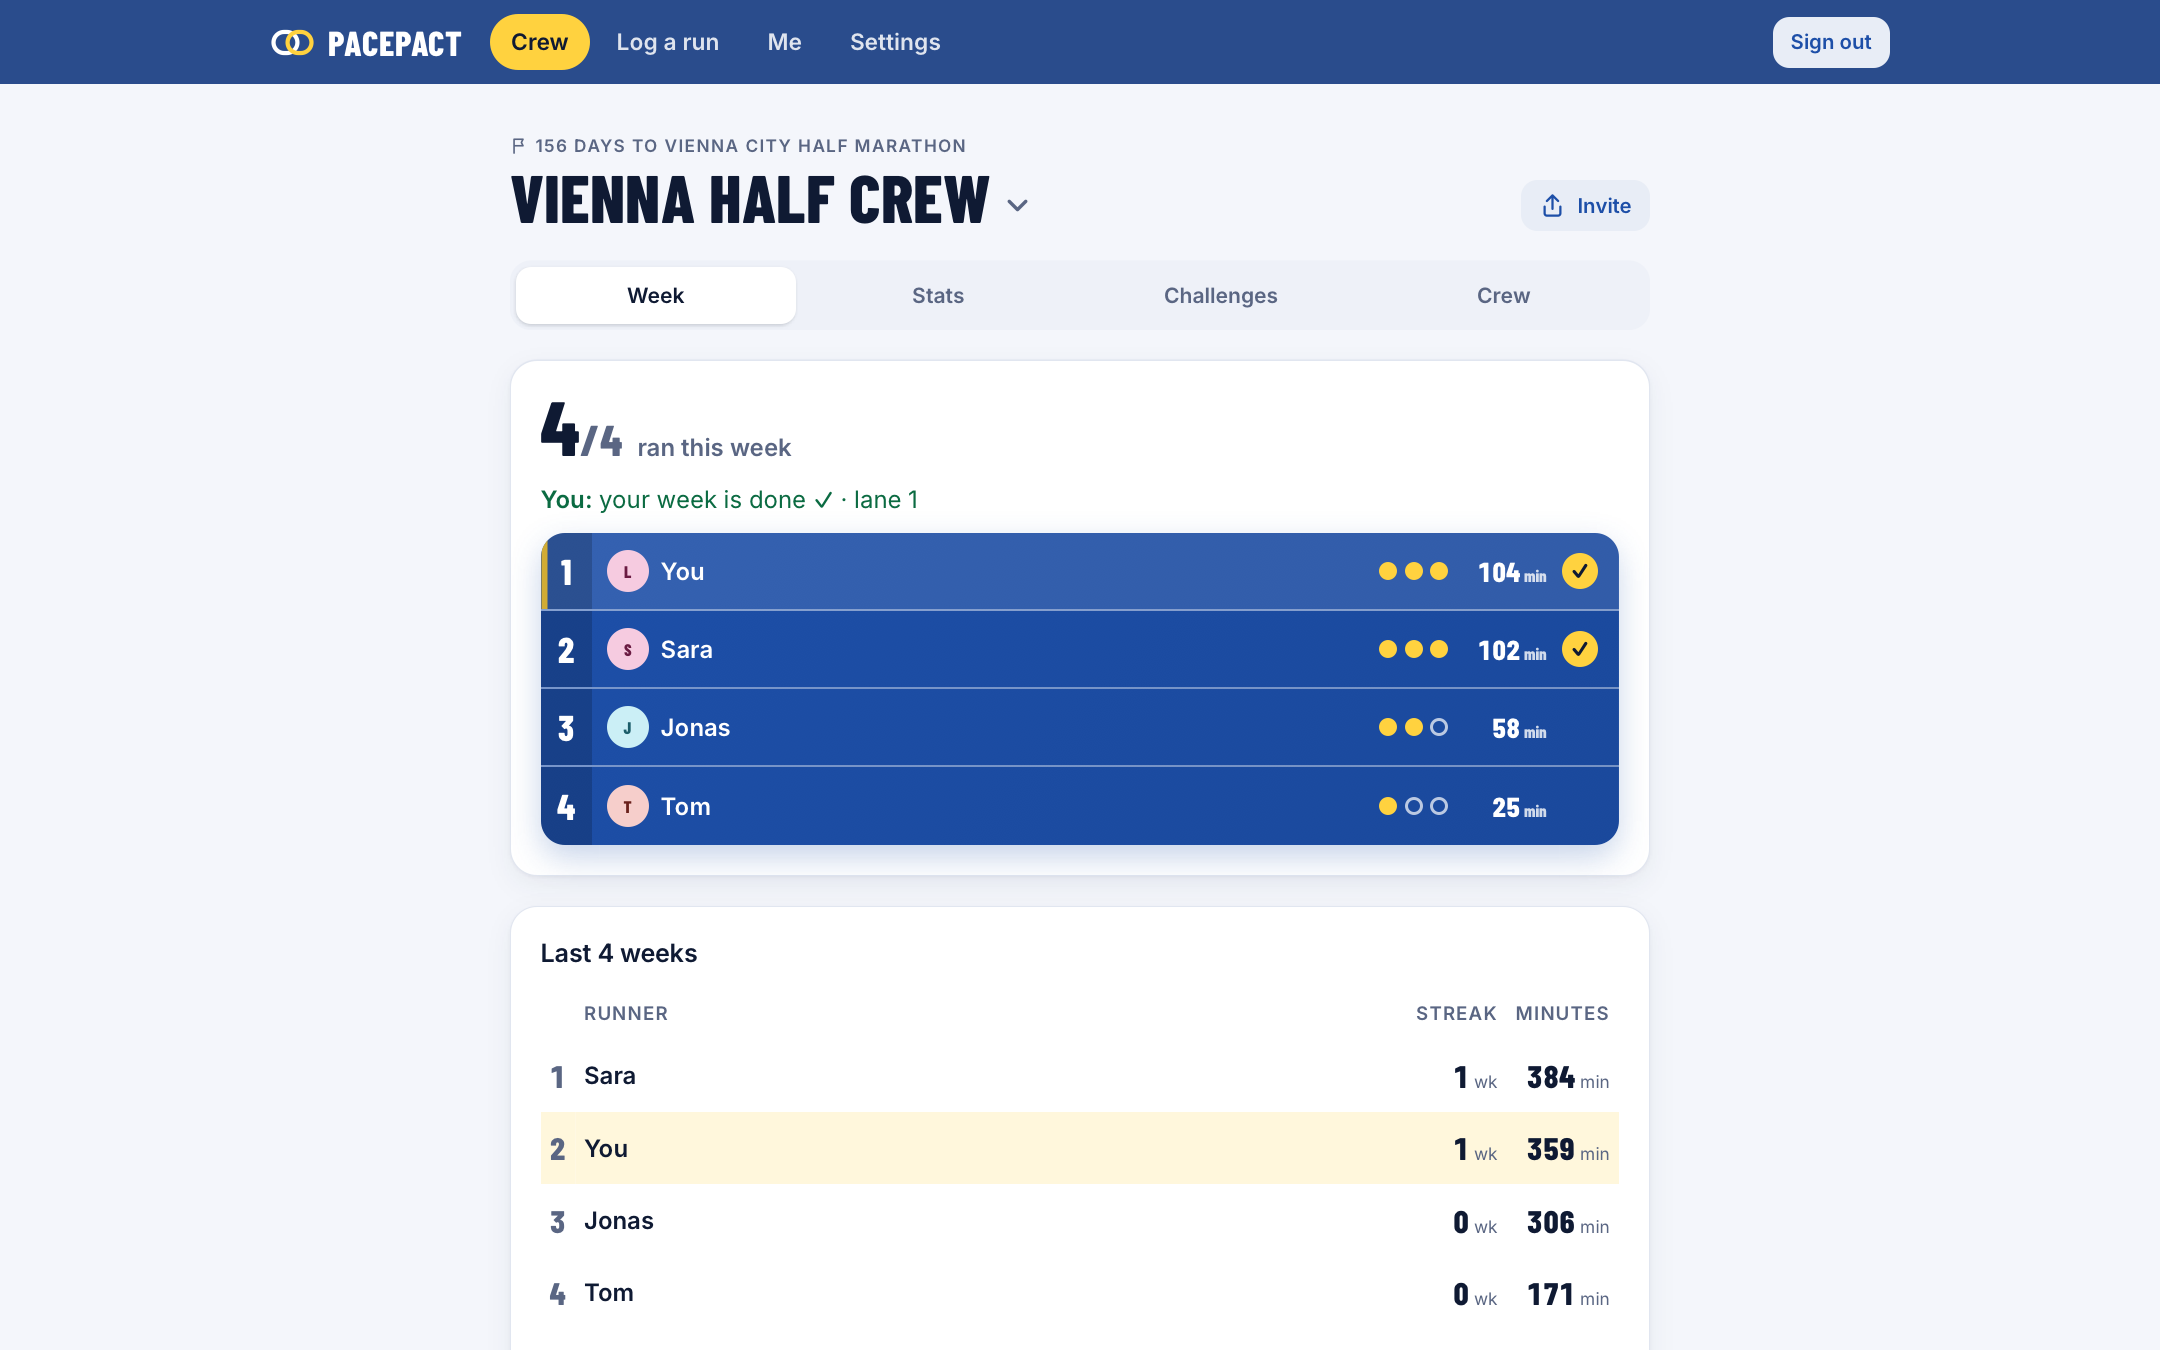
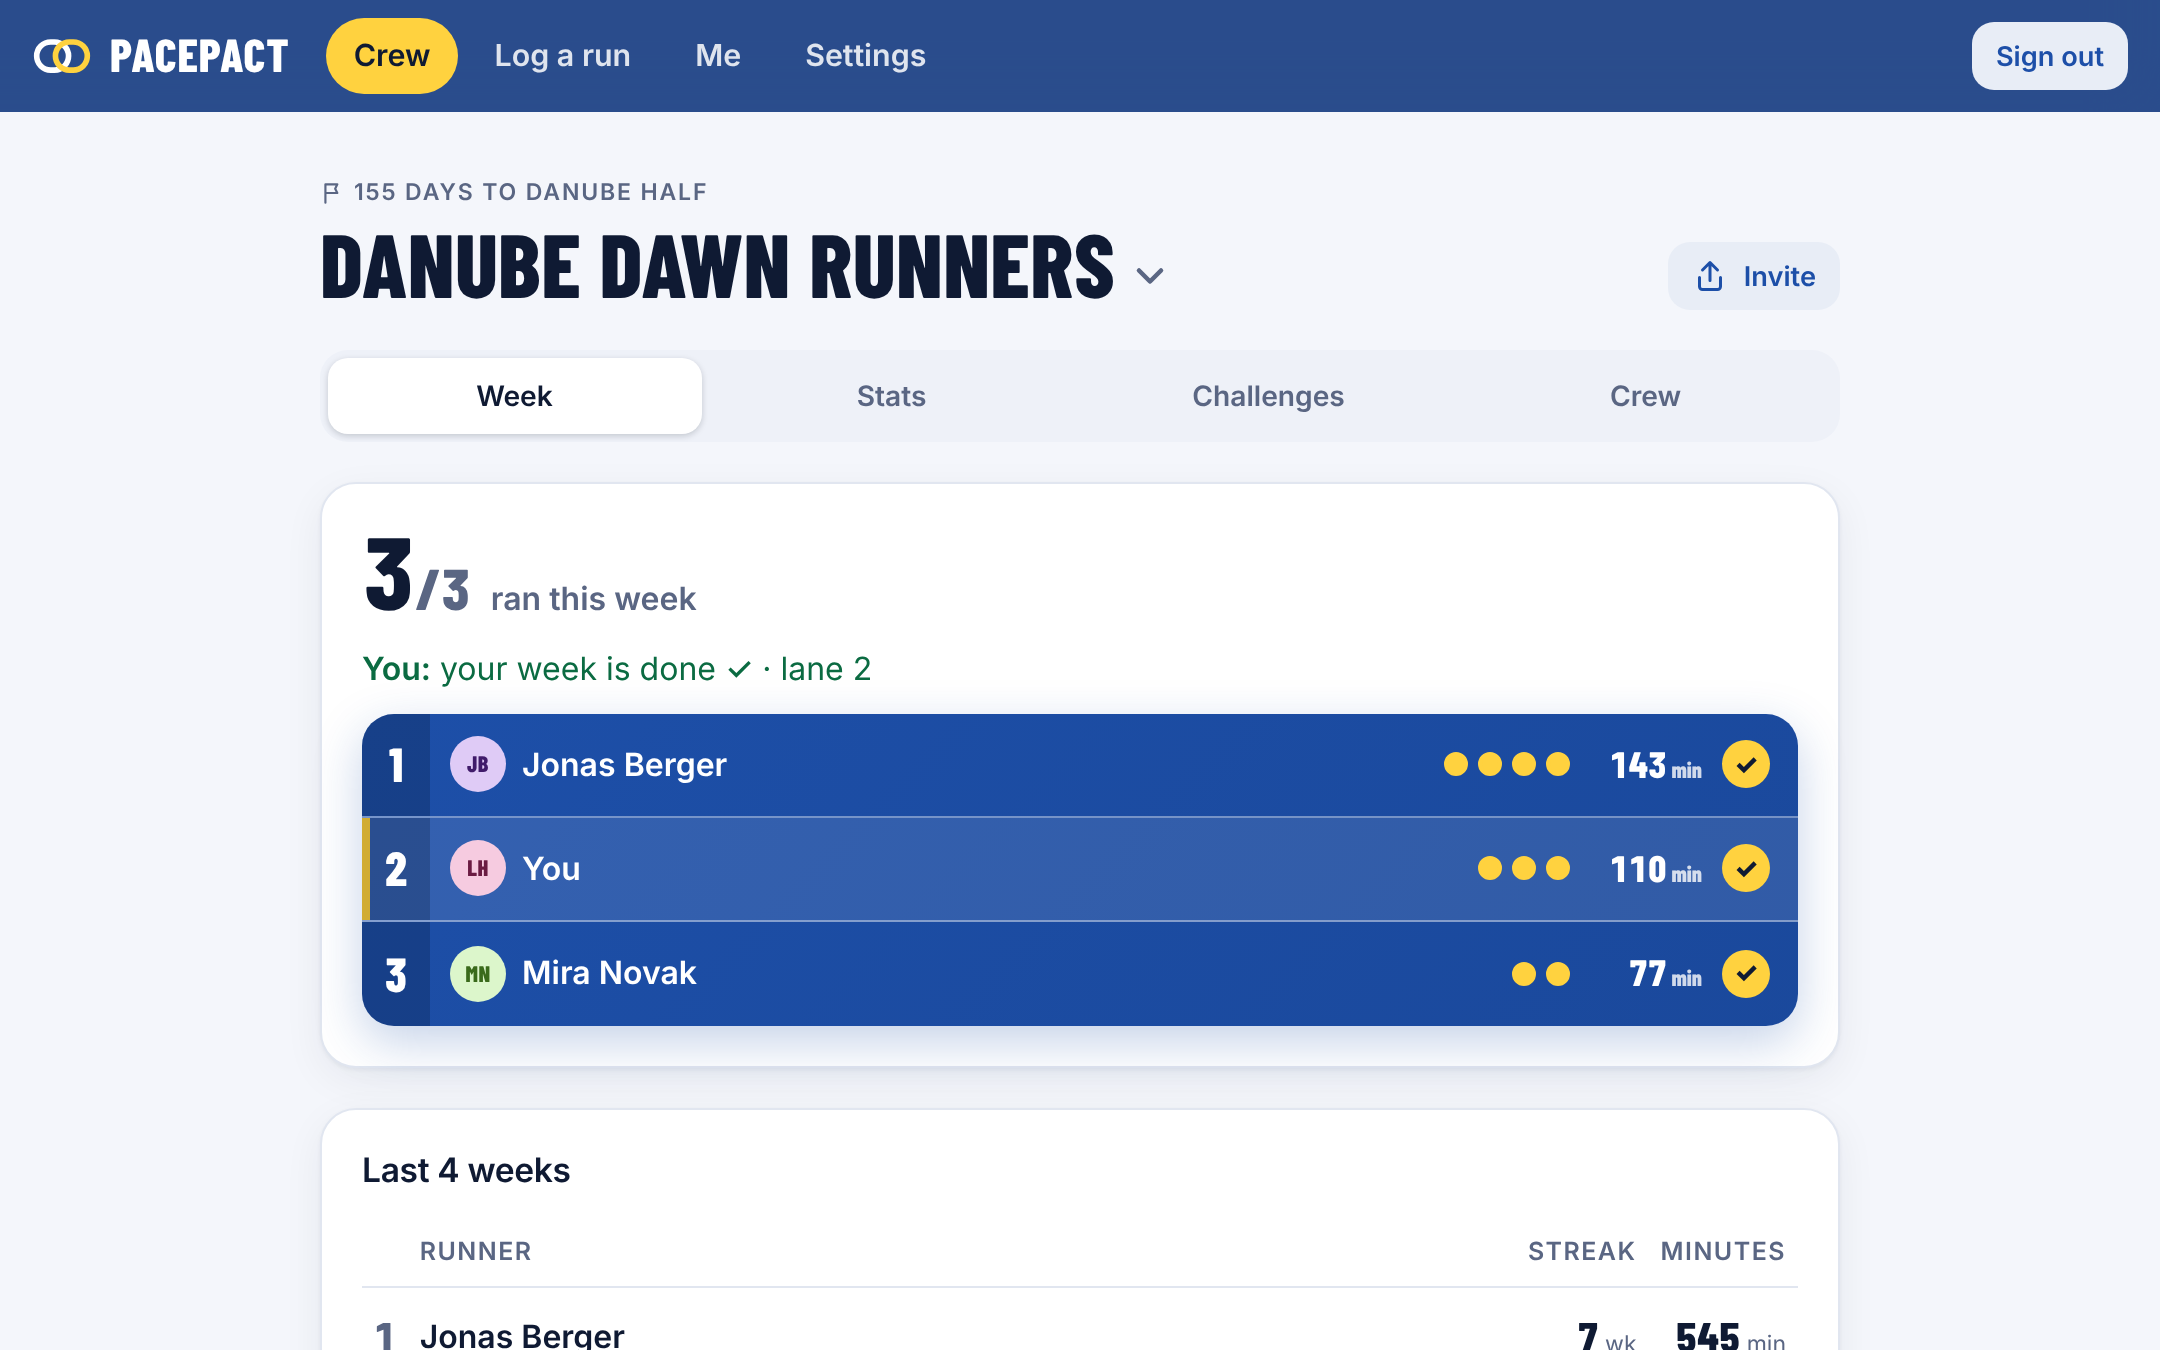
README: describe the simpler UI and refresh the screenshots
Claude-Session: https://claude.ai/code/session_015Q9HMiVeA1T5HLAfDU9DkR

diff --git a/README.md b/README.md
@@ -8,7 +8,7 @@ and train together with friends.
 
 | Crew | Crew stats | Me | Log a run |
 | ---- | ---------- | -- | --------- |
-| <img src="docs/screenshots/crew-light.png" width="200" alt="Crew page: countdown to the race and this week's lanes for four runners"> | <img src="docs/screenshots/stats-light.png" width="200" alt="Crew stats: runs, time, distance, longest run, streak and plan adherence per runner"> | <img src="docs/screenshots/me-light.png" width="200" alt="Me: this week against the plan and the plan's three runs"> | <img src="docs/screenshots/log-light.png" width="200" alt="Log a run: minutes and kilometres, optional heart rate with consent"> |
+| <img src="docs/screenshots/crew-light.png" width="200" alt="Crew page: countdown to the race and this week's lanes for three runners"> | <img src="docs/screenshots/stats-light.png" width="200" alt="Crew stats: key numbers with sparklines and crew minutes against the plan"> | <img src="docs/screenshots/me-light.png" width="200" alt="Me: this week against the plan and the plan's three runs"> | <img src="docs/screenshots/log-light.png" width="200" alt="Log a run: minutes and kilometres, optional heart rate with consent"> |
 | <img src="docs/screenshots/crew-dark.png" width="200" alt="Crew page in dark mode"> | <img src="docs/screenshots/stats-dark.png" width="200" alt="Crew stats in dark mode"> | <img src="docs/screenshots/me-dark.png" width="200" alt="Me in dark mode"> | <img src="docs/screenshots/log-dark.png" width="200" alt="Log a run in dark mode"> |
 
 **Desktop**
@@ -29,6 +29,10 @@ Screenshots show a sample crew with invented names from a local test instance, n
   It can be repeated from Settings.
 - **Install as app:** web app manifest and icons; Android/Chrome gets a real install button, iPhone/iPad a short
   "Share → Add to Home Screen" guide (as in Rookie).
+- **One way to each thing:** logging a run lives only in the tab bar (+); the crew page, Me and the runs list have no
+  second "Log a run" button, the import page no "log by hand" panel, and the crew tab no second share button (Invite sits
+  in the crew header; the tab shows the code). Plans show one card per phase (no wide table on phones). Account deletion
+  is folded away in Settings.
 - **Navigation:** three places only: Crew (opens the crew you looked at last, remembered in the `pp_crew` cookie; switch
   crews with the arrow next to the crew name, which also leads to starting or joining another crew), Log a run (+) and Me (my week against the plan, recent runs, links to
   the full plan, all runs, Apple Health import and personal challenges). Settings sit behind the gear icon.
@@ -51,7 +55,7 @@ Screenshots show a sample crew with invented names from a local test instance, n
   (the field appears only once it is ticked). The Me page shows "pace at the same heart rate" (12 weeks, ±5 bpm around
   the typical average heart rate, `hrTrend` in `src/lib/stats.ts`), visible only to the runner. The run type is
   preselected (the next open planned run); time, max heart rate, effort, walk breaks and notes are under "More details". After saving, the runner lands in their crew.
-- **Languages:** English by default, German selectable in the intro (landing, sign-up, invite) and in Settings, saved per account.
+- **Languages:** English by default, German selectable in the intro (landing, sign-up, invite) and in Settings (one tap), saved per account.
 - **Goals:** race, date, distance and optional target time. The required pace and a countdown in weeks are calculated.
 - **Plan:** Run 1 (easy), Run 2 (easy, later tempo) and Run 3 (long run), with no fixed weekdays. Two runs a week drop
   Run 2; four add an easy Run 4. Phases are counted back from race day.
@@ -72,7 +76,7 @@ Screenshots show a sample crew with invented names from a local test instance, n
     run type typed by the runner are kept.
 - **Crews (groups) – the heart of the app:** signed-in runners land in their crew.
   - Invite link `/join/<code>` with the system share sheet; new runners sign up and land in the crew after the welcome
-    flow (9 taps including the passkey prompt; 11 taps and 3 fields until they see their first run in the lanes). Admins rotate the code, remove members, edit the crew (race countdown, "count only Apple Health runs")
+    flow (9 taps including the passkey prompt; 11 taps and 3 fields until they see their first run in the lanes). Admins rotate the code, remove members (behind "Manage" in the Crew tab, so no red buttons by default), edit the crew (race countdown, "count only Apple Health runs")
     and delete it; everyone can leave.
   - The crew home answers two questions without scrolling on a phone: who ran this week ("3/4 ran this week", one
     lane per runner with planned runs as dots, minutes and a check mark) and where do I stand ("You: 1 run to go ·
